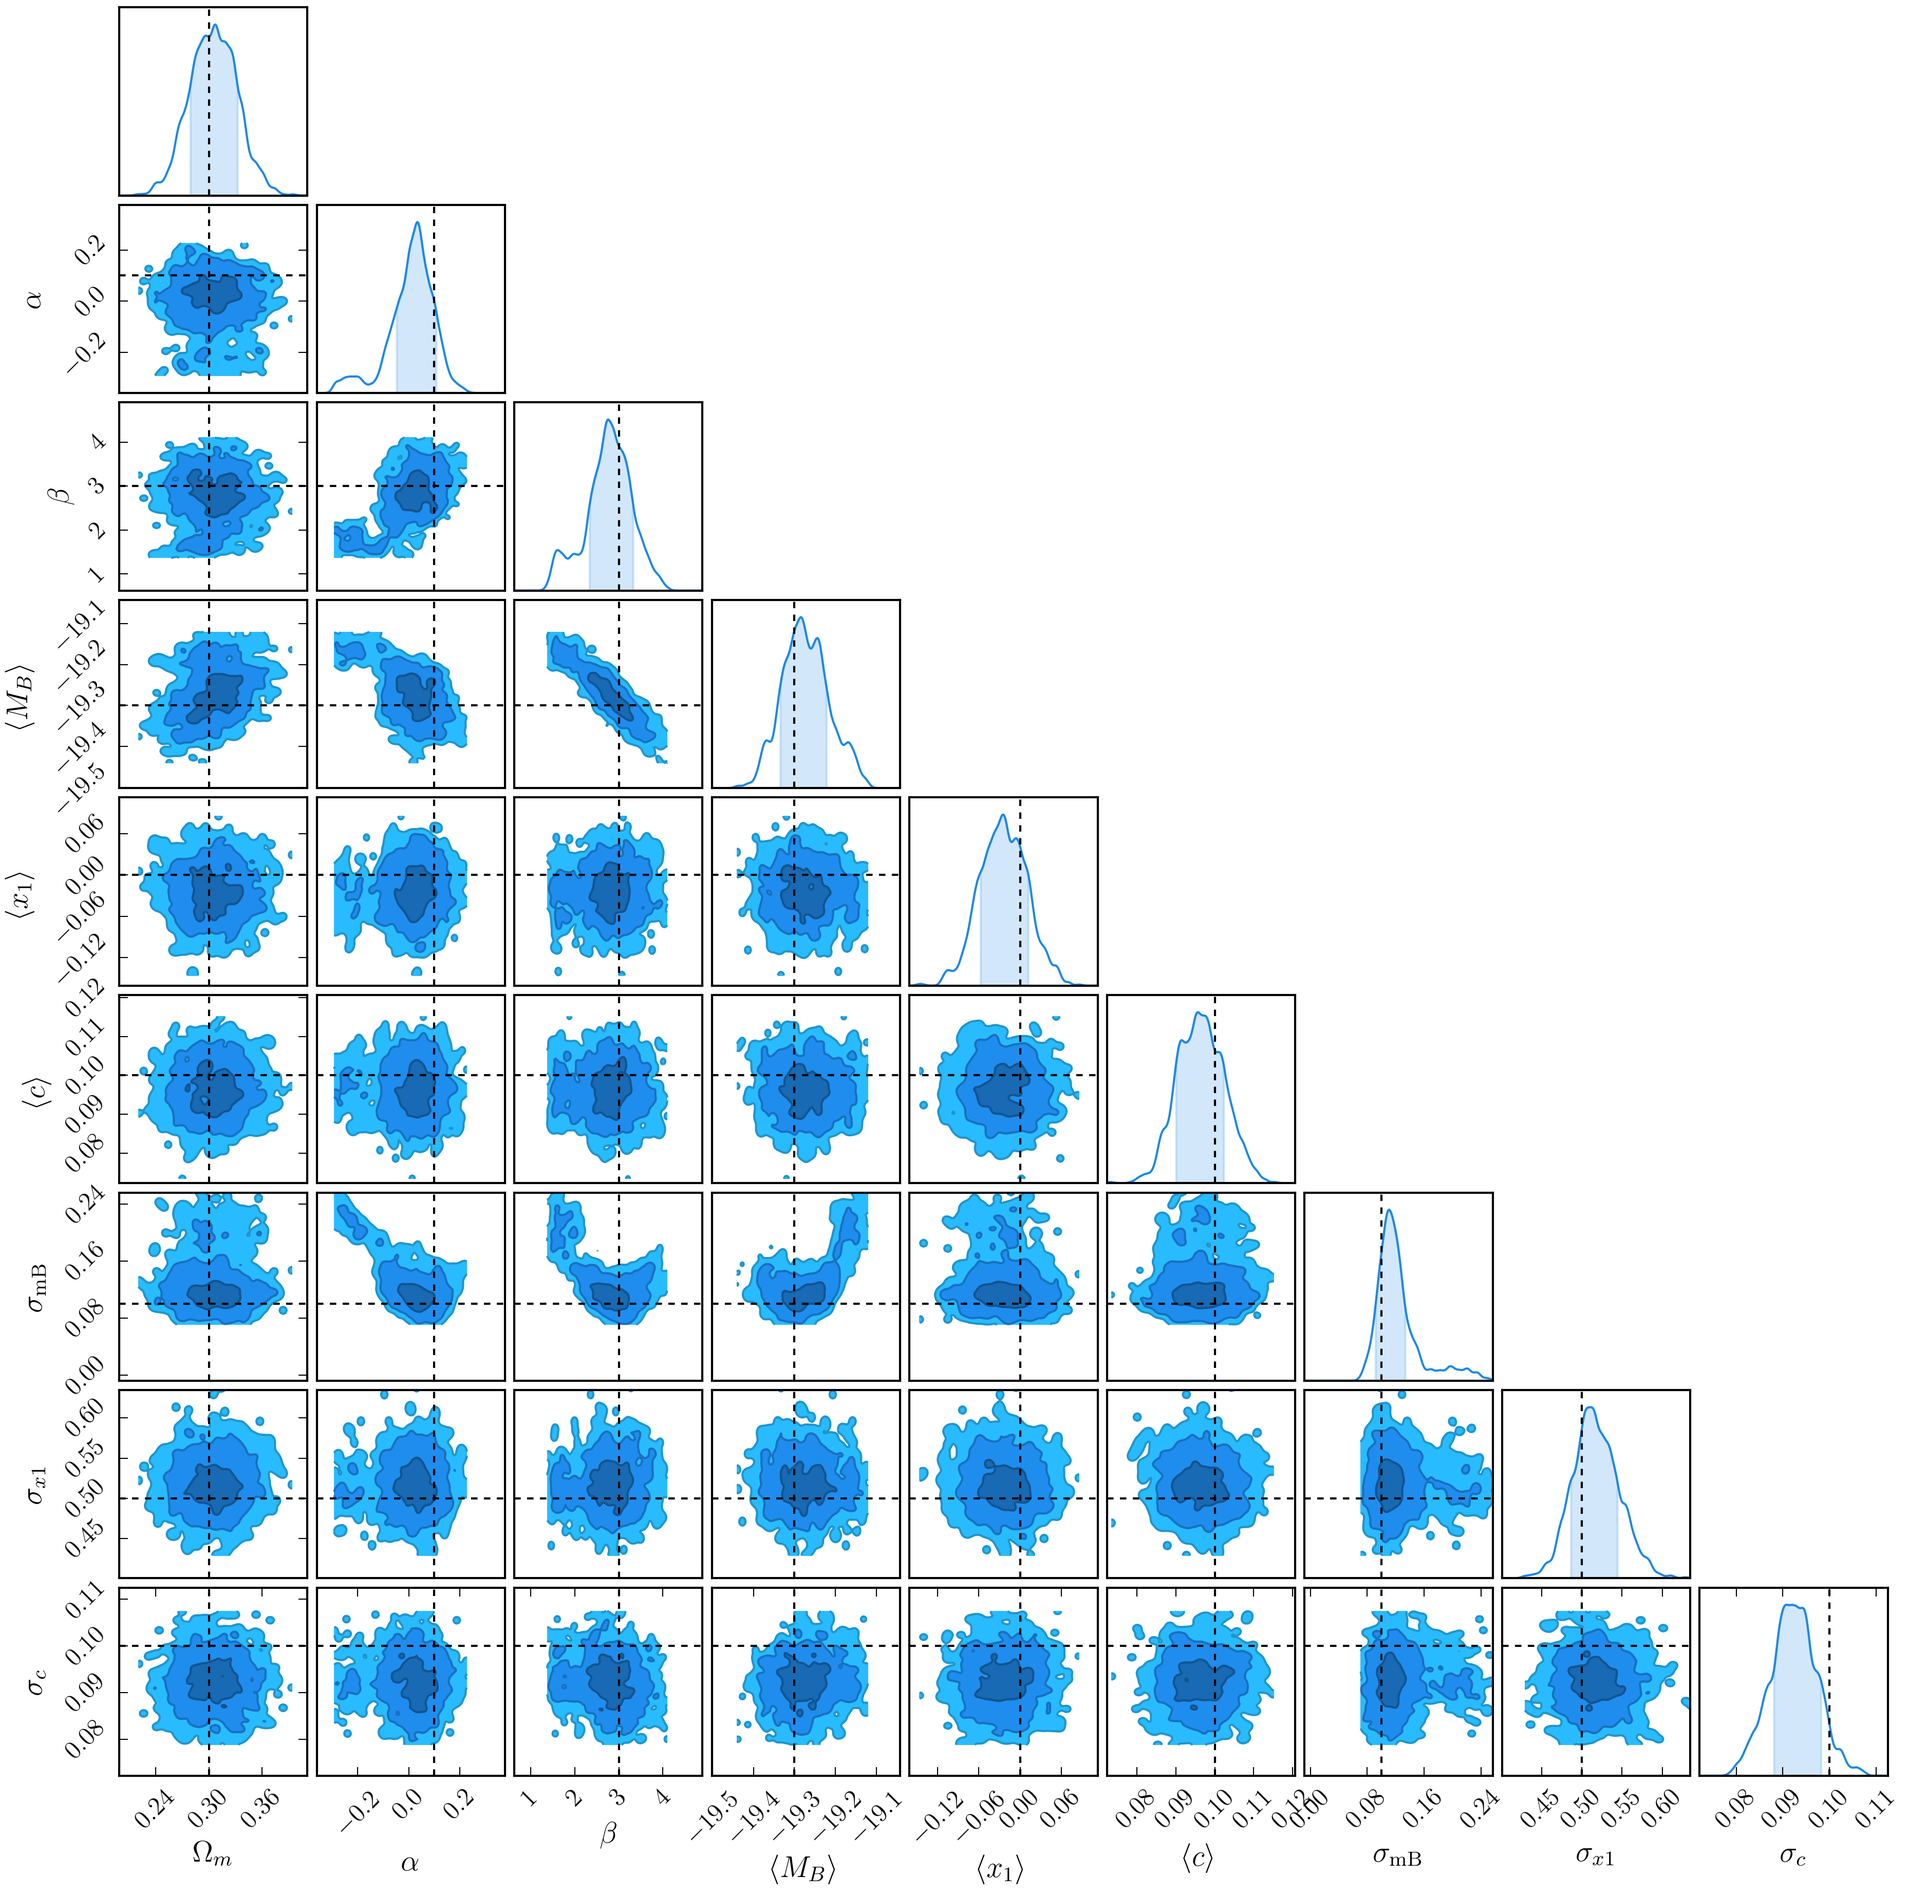
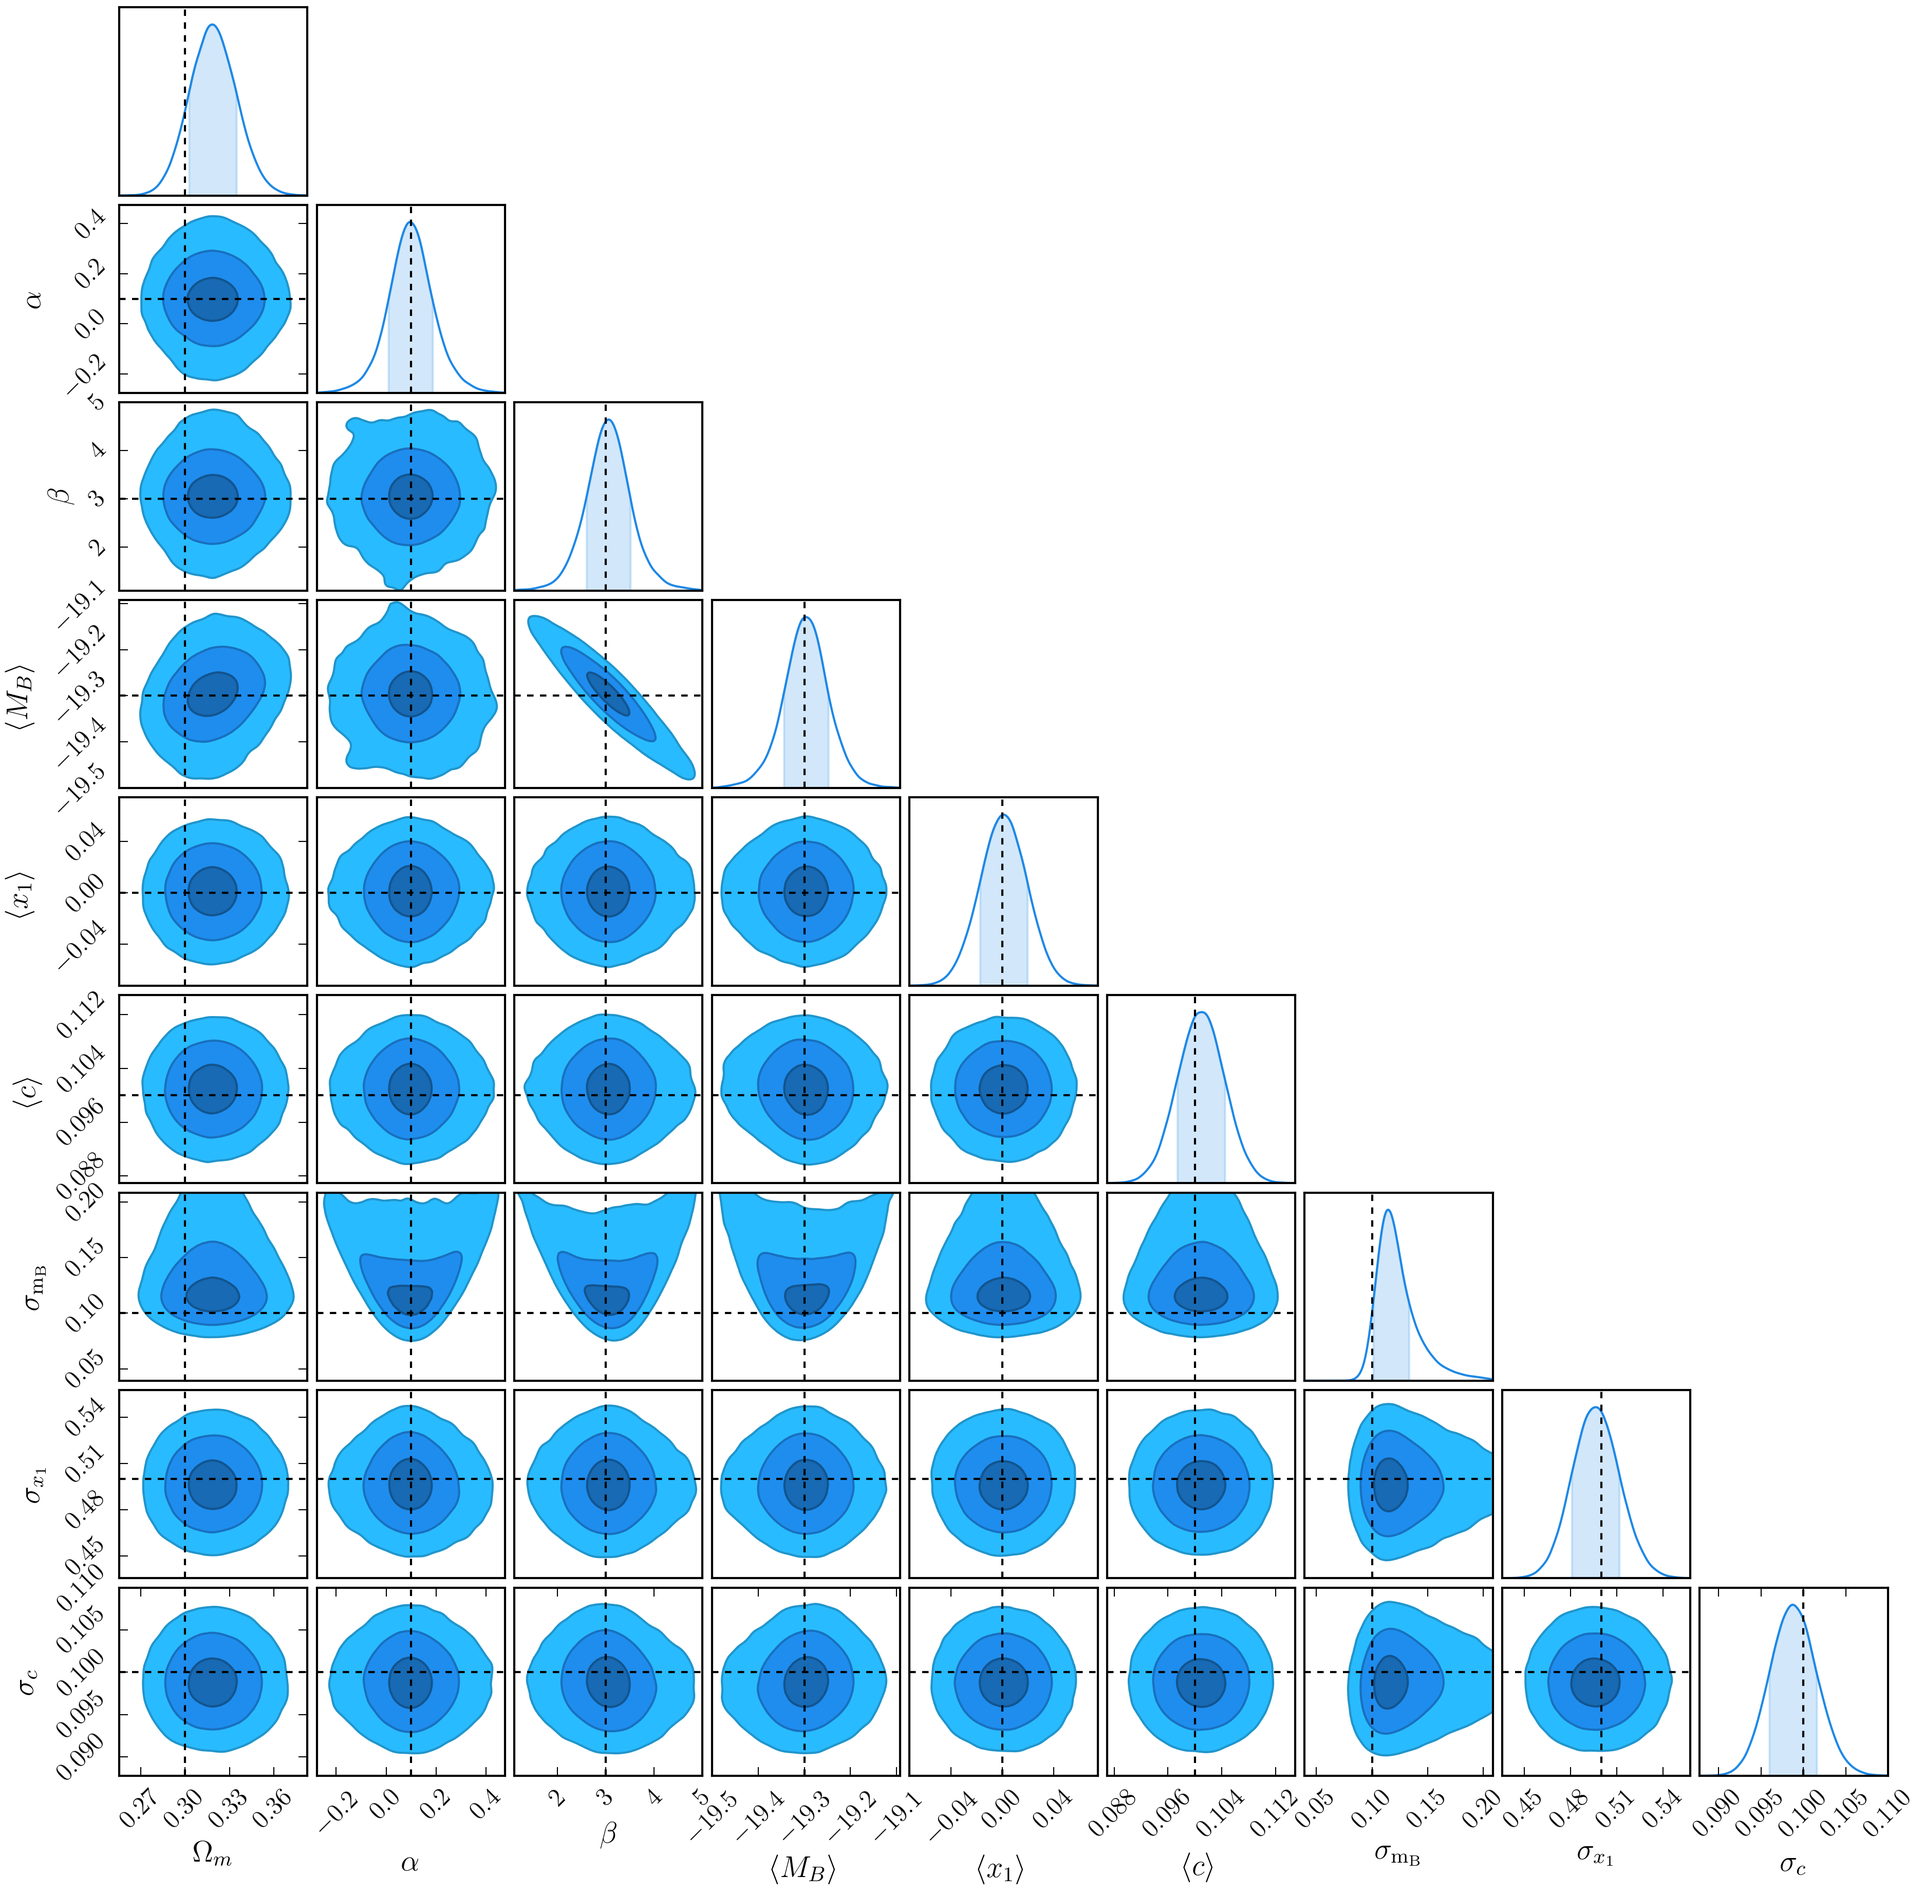
Updating config

Changed region(s): [[0.0312, 0.0, 0.9995, 0.9976]]

diff --git a/dessn/models/d_simple_stan/run_stan.py b/dessn/models/d_simple_stan/run_stan.py
@@ -16,8 +16,8 @@ def get_truths_labels_significance():
         ("mean_MB", -19.3, r"$\langle M_B \rangle$", True, -20, -18.5),
         ("mean_x1", 0.0, r"$\langle x_1 \rangle$", True, -1.0, 1.0),
         ("mean_c", 0.1, r"$\langle c \rangle$", True, -0.2, 0.2),
-        ("sigma_MB", 0.1, r"$\sigma_{\rm mB}$", True, 0.05, 0.4),
-        ("sigma_x1", 0.5, r"$\sigma_{x1}$", True, 0.1, 2.0),
+        ("sigma_MB", 0.1, r"$\sigma_{\rm m_B}$", True, 0.05, 0.4),
+        ("sigma_x1", 0.5, r"$\sigma_{x_1}$", True, 0.1, 2.0),
         ("sigma_c", 0.1, r"$\sigma_c$", True, 0.05, 0.2),
         # ("c_alpha", 2.0, r"$\alpha_c$", False, -2, 2.0),
         # ("dscale", 0.08, r"$\delta(0)$", False, -0.2, 0.2),
@@ -27,7 +27,7 @@ def get_truths_labels_significance():
     return result
 
 
-def get_physical_data(n_sne=500, seed=0):
+def get_physical_data(n_sne=500, seed=1):
     vals = get_truths_labels_significance()
     mapping = {k[0]: k[1] for k in vals}
     np.random.seed(seed)
@@ -104,7 +104,7 @@ def get_analysis_data(snana=False):
     data["obs_mBx1c_cor"] = cors
     redshifts = data["redshifts"]
     # data["redshift_pre_comp"] = 0.9 + np.power(10, 0.95 * redshifts)
-    n_z = 500
+    n_z = 2000
     dz = redshifts.max() / n_z
     zs = sorted(redshifts.tolist())
     added_zs = [0]
@@ -178,7 +178,7 @@ if __name__ == "__main__":
         i = int(sys.argv[1])
         t = output_dir + "/stan%d.pkl" % i
         sm = pystan.StanModel(file="model.stan", model_name="Cosmology")
-        fit = sm.sampling(data=data, iter=20000, warmup=10000, chains=1, init=init_fn)
+        fit = sm.sampling(data=data, iter=5000, warmup=2000, chains=1, init=init_fn)
 
         # Dump relevant chains to file
         with open(t, 'wb') as output:
